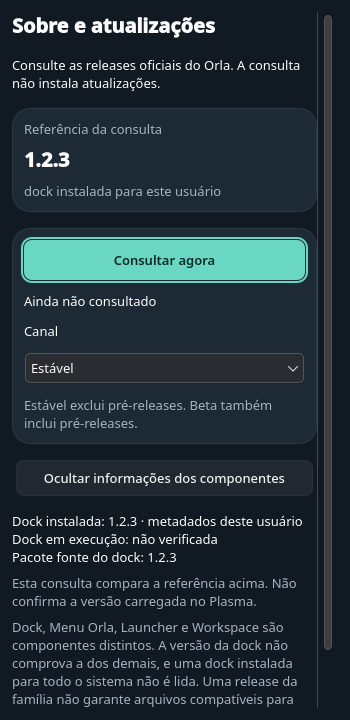
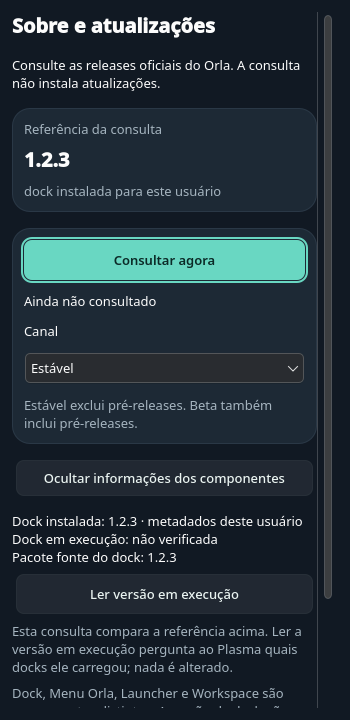
feat(updates): read the running dock version on request
Opening the window still never asks Plasma. A new "Ler versão em
execução" action sends a fixed read-only script through
org.kde.PlasmaShell.evaluateScript (async, 3 s timeout) and accepts only
an exact reply with up to 16 SemVer dock versions. The component lines
say whether the dock is loaded, absent or unreadable, and the window
suggests reloading Plasma when the loaded version differs from the
installed one. Duplicate and late callbacks are ignored.

A headless read against the live session returned the loaded 0.2.9
dock and wrote no files.

Changed region(s): [[0.0286, 0.7944, 0.8571, 0.9778], [0.9143, 0.825, 0.9714, 0.9167], [0.7714, 0.7944, 0.8571, 0.825]]

diff --git a/workspace/Updates.qml b/workspace/Updates.qml
@@ -83,10 +83,20 @@ Controls.ApplicationWindow {
         let text = status === "found" ? qsTr("Dock instalada: %1 · metadados deste usuário").arg(window.state.installedVersion)
             : status === "invalid" ? qsTr("Dock instalada: metadados inválidos")
             : qsTr("Dock instalada: não encontrada para este usuário");
-        text += "\n" + qsTr("Dock em execução: não verificada");
+        const running = window.state.runningStatus;
+        const versions = window.state.runningVersions || [];
+        text += "\n" + (running === "found" ? qsTr("Dock em execução: %1 · lida do Plasma").arg(versions.join(", "))
+            : running === "absent" ? qsTr("Dock em execução: não carregada no Plasma")
+            : running === "unavailable" ? qsTr("Dock em execução: não foi possível ler agora")
+            : qsTr("Dock em execução: não verificada"));
         if (window.state.otherRole === "source") text += "\n" + qsTr("Pacote fonte do dock: %1").arg(window.state.otherVersion);
         else if (window.state.otherRole === "bundle") text += "\n" + qsTr("Esta cópia do Workspace: %1").arg(window.state.otherVersion);
         return text;
+    }
+    function runningDiffers() {
+        const versions = window.state.runningVersions || [];
+        return window.state.installedStatus === "found" && window.state.runningStatus === "found"
+            && (versions.length !== 1 || versions[0] !== window.state.installedVersion);
     }
     function displayDate(value) {
         return new Date(value).toLocaleString(Qt.locale(), Locale.ShortFormat);
@@ -221,8 +231,27 @@ Controls.ApplicationWindow {
                     text: window.componentText()
                 }
                 Copy {
+                    objectName: "updatesRunningDiffers"
+                    visible: window.runningDiffers()
+                    text: qsTr("A dock carregada difere da instalada. Recarregue o Plasma ou entre de novo na sessão para usar a versão instalada.")
+                }
+                Orla.OrlaButton {
+                    id: readRunning
+                    objectName: "updatesReadRunning"
+                    Layout.fillWidth: true
+                    // Room for the 2 px focus ring inside the scroll viewport.
+                    Layout.leftMargin: Style.space.xs
+                    Layout.rightMargin: Style.space.xs
+                    implicitHeight: Math.max(Style.size.target, implicitContentHeight + verticalPadding * 2)
+                    text: controller.readingRunning ? qsTr("Lendo versão em execução…") : qsTr("Ler versão em execução")
+                    enabled: !controller.readingRunning && !controller.closePending
+                    onClicked: controller.readRunning()
+                    Keys.onReturnPressed: event => { if (!event.isAutoRepeat) clicked(); event.accepted = true; }
+                    Keys.onEnterPressed: event => { if (!event.isAutoRepeat) clicked(); event.accepted = true; }
+                }
+                Copy {
                     objectName: "updatesComponentScope"
-                    text: qsTr("Esta consulta compara a referência acima. Não confirma a versão carregada no Plasma.")
+                    text: qsTr("Esta consulta compara a referência acima. Ler a versão em execução pergunta ao Plasma quais docks ele carregou; nada é alterado.")
                     color: window.ui.textMuted
                 }
                 Copy {

diff --git a/scripts/updates_desktop.py b/scripts/updates_desktop.py
@@ -8,7 +8,7 @@ from PySide6.QtCore import QObject, Property, Signal, Slot, QUrl, QProcess, QTim
 from PySide6.QtGui import QGuiApplication
 from PySide6.QtQml import QQmlApplicationEngine
 from scripts.updates_desktop_state import source_reference, strict_json, LIMIT, Store, history_key, valid_reference
-from scripts.updates_contract import validate_result, result, safe_release_url, utc_time
+from scripts.updates_contract import validate_result, result, safe_release_url, utc_time, parse_version
 from datetime import datetime, timezone
 
 def now():
@@ -179,13 +179,56 @@ class CheckProcess(QObject):
         except (ValueError, TypeError, UnicodeError, RecursionError):
             data = result('unavailable', self.failure or 'invalid_result', self.reference['version'], self.channel, self.attempted_at)
         self.done.emit(data)
+# Fixed, read-only Plasma script: versions of the dock widgets Plasma has loaded.
+RUNNING_SCRIPT = ('var v=[];panels().forEach(function(p){p.widgets().forEach(function(w){'
+                  'if(w.type==="org.caiodock.dock")v.push(String(w.version));});});'
+                  'print(JSON.stringify({docks:v}));')
+RUNNING_LIMIT = 16
+
+
+def parse_running(text):
+    """Strict reply → ('found', sorted distinct versions) or ('absent', [])."""
+    if not isinstance(text, str):
+        raise ValueError('reply type')
+    value = strict_json(text)
+    if not isinstance(value, dict) or set(value) != {'docks'} or not isinstance(value['docks'], list):
+        raise ValueError('reply shape')
+    docks = value['docks']
+    if len(docks) > RUNNING_LIMIT or any(not isinstance(v, str) or parse_version(v) is None for v in docks):
+        raise ValueError('reply versions')
+    return ('found', sorted(set(docks))) if docks else ('absent', [])
+
+
+def plasma_running_probe(parent, done, timeout_ms=3000):
+    """Ask Plasma, asynchronously and only on request, which dock versions it loaded."""
+    from PySide6.QtDBus import QDBusConnection, QDBusMessage, QDBusPendingCallWatcher
+    bus = QDBusConnection.sessionBus()
+    if not bus.isConnected():
+        done('unavailable', [])
+        return
+    message = QDBusMessage.createMethodCall('org.kde.plasmashell', '/PlasmaShell', 'org.kde.PlasmaShell', 'evaluateScript')
+    message.setArguments([RUNNING_SCRIPT])
+    watcher = QDBusPendingCallWatcher(bus.asyncCall(message, timeout_ms), parent)
+
+    def finished(call):
+        reply = call.reply()
+        call.deleteLater()
+        arguments = reply.arguments() if reply.type() == QDBusMessage.ReplyMessage else []
+        try:
+            status, versions = parse_running(arguments[0] if len(arguments) == 1 else None)
+        except (ValueError, TypeError, RecursionError):
+            status, versions = 'unavailable', []
+        done(status, versions)
+    watcher.finished.connect(finished)
+
+
 _UNSET = object()
 
 class UpdatesController(QObject):
     changed = Signal()
     closeReady = Signal()
 
-    def __init__(self, root, reference=_UNSET, *, runner=None, storage_root=None, opener=None, watchdog_ms=15000, parent=None):
+    def __init__(self, root, reference=_UNSET, *, runner=None, storage_root=None, opener=None, watchdog_ms=15000, running_probe=None, parent=None):
         super().__init__(parent)
         self.root = Path(root).resolve()
         self._source = reference is _UNSET
@@ -194,6 +237,9 @@ class UpdatesController(QObject):
         self._installed_status = 'absent'
         self.reference = None
         self._runner = runner or cli_command
+        self._running_probe = running_probe or plasma_running_probe
+        self._running = dict(status='unread', versions=[])
+        self._running_token = None
         self._opener = opener
         self._watchdog_ms = watchdog_ms
         self._process = None
@@ -224,6 +270,30 @@ class UpdatesController(QObject):
         return self._closing
 
     @Property(bool, notify=changed)
+    def readingRunning(self):
+        return self._running_token is not None
+
+    @Slot()
+    def readRunning(self):
+        """Explicit request only: opening the window never asks Plasma."""
+        if self._running_token is not None or self._closing:
+            return
+        token = object()
+        self._running_token = token
+
+        def done(status, versions):
+            if self._running_token is not token:
+                return
+            self._running_token = None
+            self._running = dict(status=status, versions=list(versions))
+            self.changed.emit()
+        self.changed.emit()
+        try:
+            self._running_probe(self, done)
+        except (OSError, ValueError, TypeError, RuntimeError, ImportError):
+            done('unavailable', [])
+
+    @Property(bool, notify=changed)
     def canCheck(self):
         return self.reference is not None and (not self._busy) and (not self._closing)
 
@@ -238,7 +308,7 @@ class UpdatesController(QObject):
     def state(self):
         installed = self.reference if self.reference and self.reference['role'] == 'installed' else None
         other = self._fallback if installed else None
-        return dict(status=self._status, version=self.reference['version'] if self.reference else '', role=self.reference['role'] if self.reference else '', installedStatus=self._installed_status, installedVersion=installed['version'] if installed else '', otherRole=other['role'] if other else '', otherVersion=other['version'] if other else '', record=self._record, releaseUrl=(self._record.get('result') or {}).get('available_url') or '', openingFailed=self._opening_failed, historical=self._historical, lastCompleted=self._last_completed, storageWarning=self._storage_warning, timeUnreliable=self.time_unreliable(), old=self.old_record())
+        return dict(status=self._status, version=self.reference['version'] if self.reference else '', role=self.reference['role'] if self.reference else '', installedStatus=self._installed_status, installedVersion=installed['version'] if installed else '', otherRole=other['role'] if other else '', otherVersion=other['version'] if other else '', runningStatus=self._running['status'], runningVersions=list(self._running['versions']), record=self._record, releaseUrl=(self._record.get('result') or {}).get('available_url') or '', openingFailed=self._opening_failed, historical=self._historical, lastCompleted=self._last_completed, storageWarning=self._storage_warning, timeUnreliable=self.time_unreliable(), old=self.old_record())
 
     def restore_record(self):
         entry = self._records.get(self._channel, {})

diff --git a/tests/test_updates_desktop_view.py b/tests/test_updates_desktop_view.py
@@ -203,7 +203,7 @@ class ViewTests(process.ProcessFixture):
         self.assertTrue(unknowns.isVisible())
         self.assertEqual(unknowns.property('text'), 'Dock instalada: não encontrada para este usuário\nDock em execução: não verificada')
         self.assertTrue(details.hasActiveFocus())
-        self.assertIn('Não confirma a versão carregada no Plasma', self.item('updatesComponentScope').property('text'))
+        self.assertIn('pergunta ao Plasma quais docks ele carregou', self.item('updatesComponentScope').property('text'))
         self.assertEqual(self.argv, [])
         self.host.reference = dict(process.REF, role='bundle', component='workspace', origin='verified-manifest')
         self.host.changed.emit()
@@ -237,6 +237,49 @@ class ViewTests(process.ProcessFixture):
         self.assertTrue(versions.isVisible())
         self.assertEqual(versions.property('text'), 'Dock instalada: 0.2.9 · metadados deste usuário\n'
                          'Dock em execução: não verificada\nPacote fonte do dock: 1.2.3')
+        self.assertEqual(self.argv, [])
+
+    def test_running_dock_is_read_only_on_request_and_reports_each_state(self):
+        requests = []
+        self.host._running_probe = lambda parent, done: requests.append(done)
+        package = self.path / 'data/plasma/plasmoids/org.caiodock.dock'
+        package.mkdir(parents=True)
+        (package / 'metadata.json').write_text(json.dumps({'KPlugin': {'Id': 'org.caiodock.dock', 'Version': '0.2.9'}}))
+        self.host.resolve_reference()
+        self.host.changed.emit()
+        self.focus(self.item('updatesDetails'))
+        QTest.keyClick(self.window, Qt.Key_Space)
+        QTest.qWait(40)
+        versions, button, differs = self.item('updatesComponentVersions'), self.item('updatesReadRunning'), self.item('updatesRunningDiffers')
+        self.assertEqual(requests, [])
+        self.assertIn('Dock em execução: não verificada', versions.property('text'))
+        self.focus(button)
+        QTest.keyClick(self.window, Qt.Key_Space)
+        QTest.keyClick(self.window, Qt.Key_Return)
+        QTest.qWait(30)
+        self.assertEqual(len(requests), 1)
+        self.assertTrue(self.host.readingRunning)
+        self.assertFalse(button.property('enabled'))
+        cases = [('found', ['0.2.9'], 'Dock em execução: 0.2.9 · lida do Plasma', False),
+                 ('found', ['0.2.8'], 'Dock em execução: 0.2.8 · lida do Plasma', True),
+                 ('found', ['0.2.8', '0.2.9'], 'Dock em execução: 0.2.8, 0.2.9 · lida do Plasma', True),
+                 ('absent', [], 'Dock em execução: não carregada no Plasma', False),
+                 ('unavailable', [], 'Dock em execução: não foi possível ler agora', False)]
+        for index, (status, found, line, mismatch) in enumerate(cases):
+            with self.subTest(status=status, found=found):
+                if index:
+                    self.host.readRunning()
+                requests[-1](status, found)
+                requests[-1](status, ['9.9.9'])  # a duplicate callback is ignored
+                QTest.qWait(30)
+                self.assertEqual(len(requests), index + 1)
+                self.assertFalse(self.host.readingRunning)
+                self.assertEqual(versions.property('text').split('\n')[1], line)
+                self.assertEqual(differs.isVisible(), mismatch)
+        self.host._running_probe = lambda parent, done: (_ for _ in ()).throw(RuntimeError('no bus'))
+        self.host.readRunning()
+        QTest.qWait(30)
+        self.assertEqual(versions.property('text').split('\n')[1], 'Dock em execução: não foi possível ler agora')
         self.assertEqual(self.argv, [])
 
     def test_future_saved_clock_stays_unreliable_after_formatting(self):
@@ -305,7 +348,7 @@ class ViewTests(process.ProcessFixture):
             for width in (320, 350, 420):
                 self.window.resize(width, 240)
                 self.focus(self.item('updatesCheck'))
-                for name in ('updatesChannel', 'updatesDetails', 'updatesRelease'):
+                for name in ('updatesChannel', 'updatesDetails', 'updatesReadRunning', 'updatesRelease'):
                     QTest.keyClick(self.window, Qt.Key_Tab)
                     QTest.qWait(40)
                     control = self.item(name)
@@ -316,7 +359,7 @@ class ViewTests(process.ProcessFixture):
                     self.assertLessEqual(point.x() + control.width() + 3, viewport.width() + 1, (scale, width, name))
                     self.assertGreaterEqual(point.y() - 3, -1, (scale, width, name))
                     self.assertLessEqual(point.y() + control.height() + 3, viewport.height() + 1, (scale, width, name))
-                for name in ('updatesDetails', 'updatesChannel', 'updatesCheck'):
+                for name in ('updatesReadRunning', 'updatesDetails', 'updatesChannel', 'updatesCheck'):
                     QTest.keyClick(self.window, Qt.Key_Backtab)
                     QTest.qWait(40)
                     self.assertTrue(self.item(name).hasActiveFocus(), (scale, width, name))

diff --git a/tests/test_updates_desktop_contract.py b/tests/test_updates_desktop_contract.py
@@ -32,6 +32,19 @@ class ContractTests(unittest.TestCase):
         for raw in ('{"x":1,"x":2}', '{"x":NaN}', '{} {}', 'x' * 17000):
             self.assertRaises(ValueError, strict_json, raw)
 
+    def test_running_reply_is_strict_and_bounded(self):
+        from scripts.updates_desktop import parse_running, RUNNING_SCRIPT
+        self.assertEqual(parse_running('{"docks":["0.2.9"]}'), ('found', ['0.2.9']))
+        self.assertEqual(parse_running('{"docks":["0.2.9","0.2.8","0.2.9"]}'), ('found', ['0.2.8', '0.2.9']))
+        self.assertEqual(parse_running('{"docks":[]}'), ('absent', []))
+        for reply in (None, 7, '', 'x', '[]', '{"docks":"0.2.9"}', '{"docks":[1]}', '{"docks":["0.2"]}',
+                      '{"docks":[],"x":1}', '{"docks":[],"docks":[]}', '{"docks":["0.2.9"]} {}',
+                      '{"docks":' + json.dumps(['0.2.9'] * 17) + '}', '{"docks":["' + 'x' * 17000 + '"]}'):
+            with self.subTest(reply=str(reply)[:40]):
+                self.assertRaises((ValueError, TypeError), parse_running, reply)
+        # The script only reads widget types and versions; it never assigns to Plasma objects.
+        self.assertNotIn('=', RUNNING_SCRIPT.replace('===', '').replace('var v=', '').replace('function(', ''))
+
     def test_bundle_reference_injection_does_not_infer_installed_dock(self):
         from scripts.updates_desktop import UpdatesController
         reference = dict(REF, role='bundle', component='workspace', origin='verified-manifest', commit='c' * 40)
@@ -46,4 +59,5 @@ class ContractTests(unittest.TestCase):
             # never from the injected bundle reference; nothing claims the running dock.
             self.assertEqual((host.state['installedStatus'], host.state['installedVersion']), ('absent', ''))
             self.assertEqual((host.state['otherRole'], host.state['otherVersion']), ('', ''))
-            self.assertFalse(any(('running' in key for key in host.state)))
+            # The running dock is read only on an explicit request.
+            self.assertEqual((host.state['runningStatus'], host.state['runningVersions']), ('unread', []))

diff --git a/tests/design_gallery.py b/tests/design_gallery.py
@@ -946,6 +946,9 @@ class Gallery:
                 window.setProperty('controller',controller);window.resize(350,720)
                 details=window.findChild(QQuickItem,'updatesDetails');details.setProperty('checked',True)
                 self.save(f'updates-{host}-installed-details',window)
+                controller._running_probe=lambda parent,done:done('found',['1.2.2'])
+                controller.readRunning()
+                self.save(f'updates-{host}-running-differs',window)
                 details.setProperty('checked',False)
                 window.resize(420,720)
                 font=window.property('font');font.setPointSizeF(font.pointSizeF()*2);window.setProperty('font',font)

diff --git a/docs/updates.md b/docs/updates.md
@@ -141,10 +141,20 @@ três casos ocorreu e mostra a outra referência quando a dock instalada é usad
 Uma atualização entre abrir a janela e consultar é percebida, porque a leitura se
 repete antes de iniciar a CLI.
 
-Limites: uma dock instalada para todo o sistema não é lida; a versão carregada
-pelo Plasma continua não verificada, e uma sessão ainda não recarregada pode
-executar a versão anterior. Metadados não autenticam o publicador.
+**Ler versão em execução**, dentro de Sobre os componentes, é a única ação que
+pergunta ao Plasma. Ela envia por D-Bus um script fixo e somente leitura a
+`org.kde.PlasmaShell.evaluateScript`, com prazo de 3 segundos, e recebe as versões
+dos widgets `org.caiodock.dock` carregados. A resposta precisa ser um objeto
+exato com até 16 versões SemVer; qualquer outra coisa vira “não foi possível ler
+agora”. Sem dock carregada, a linha diz isso. Quando a versão carregada difere da
+instalada, a janela sugere recarregar o Plasma ou entrar de novo na sessão. Abrir
+a janela, trocar o canal ou consultar releases nunca faz essa leitura.
+
+Limites: uma dock instalada para todo o sistema não é lida, e a leitura em
+execução reflete os metadados que o Plasma carregou, não a integridade dos
+arquivos. Metadados não autenticam o publicador.
 
 Uma prova sem janela, com os dados reais deste usuário e configuração/cache
 temporários, leu a dock 0.2.9 instalada e consultou o canal beta anonimamente:
-`up_to_date`, com a release 0.2.9.
+`up_to_date`, com a release 0.2.9. Uma leitura sob pedido, também sem janela, recebeu
+do Plasma a dock 0.2.9 em execução e não gravou arquivos.

diff --git a/ROADMAP.md b/ROADMAP.md
@@ -394,8 +394,9 @@ pertencem a Root; offscreen não qualifica Plasma, Wayland ou AT. U1 permanece p
 **Fase C (21/10):** a janela lê de forma passiva os metadados da dock instalada
 para o usuário e, quando válidos, consulta com essa versão e origem explícita;
 sem eles, mantém a referência fonte/bundle e diz por quê. Uma prova com os dados
-reais leu a dock 0.2.9 e o canal beta respondeu `up_to_date`. Dock do sistema e
-versão carregada pelo Plasma continuam não verificadas. [Detalhes](docs/updates.md#dock-instalada-para-o-usuário--fase-c).
+reais leu a dock 0.2.9 e o canal beta respondeu `up_to_date`. Sob pedido, a janela
+também lê do Plasma a versão carregada e avisa se ela difere da instalada; abrir
+não pergunta ao Plasma. A dock instalada para o sistema continua não lida. [Detalhes](docs/updates.md#dock-instalada-para-o-usuário--fase-c).
 
 - [ ] **U1: avisos de versão.** Fonte oficial de releases do Orla, versão instalada/disponível, canal estável/beta, última consulta, cache e estado indisponível. Aceite: offline, falha e limite de consultas não parecem “já atualizado”; consultar não instala.
 - [ ] **U2: atualizar com recuperação.** Download verificado, compatibilidade, cópia da configuração, instalação iniciada pelo usuário e retorno ao pacote anterior. Definir autenticidade dos artefatos e origem confiável antes de distribuir o updater. Aceite: pacote inválido é recusado e uma atualização interrompida preserva uma versão utilizável e os perfis.
